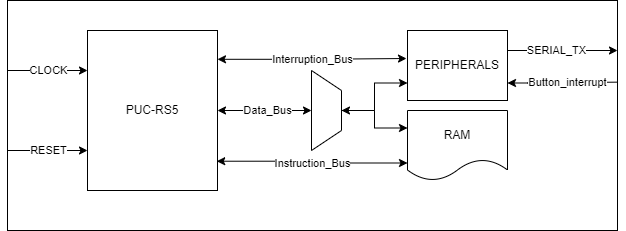
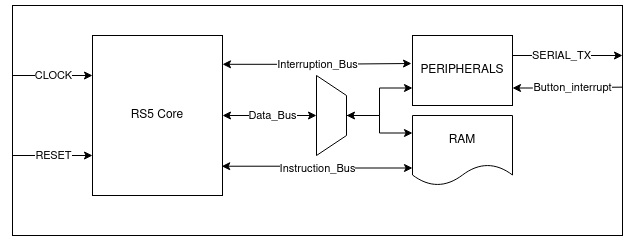
Renamed core in images and path in readme.

diff --git a/README.md b/README.md
@@ -24,19 +24,19 @@ The processor is a 4 stage pipeline, synchronized to the rising edge of the cloc
 This processor organization is an evolution of an Asynchronous RISC-V High-level Functional Model written in GO language. That can be found in the [ARV Go High-level Functional Model](https://github.com/marlls1989/arv) repository.
 
 - First Stage - Instruction Fetch: 
-This stage is the Instruction Fetch Stage and is implemented by the [Fetch Unit](https://github.com/gaph-pucrs/PUC-RS5/blob/master/rtl/fetch.sv), this unit contains the Program Counter (PC) logic, the value contained in this register is used to index the instruction memory, at each clock cycle it is updated, it can be updated to the next instruction address (PC+4), or a branch address, it can also maintain the same address in case of a bubble being inserted due to a detection of a data hazard or memory stall. The jump/branch prediction policy is "never taken".
+This stage is the Instruction Fetch Stage and is implemented by the [Fetch Unit](https://github.com/gaph-pucrs/RS5/blob/master/rtl/fetch.sv), this unit contains the Program Counter (PC) logic, the value contained in this register is used to index the instruction memory, at each clock cycle it is updated, it can be updated to the next instruction address (PC+4), or a branch address, it can also maintain the same address in case of a bubble being inserted due to a detection of a data hazard or memory stall. The jump/branch prediction policy is "never taken".
 Each instruction that leaves the first stage is linked to a Tag that will follow the instruction until its retirement. This Tag is a number that indicates the "flow/context" of that instruction. Every time a jump/branch occurs the tag will be increased meaning that the fetched instructions now belong to a new flow.
 
 - Second Stage - Instruction Decode: 
-It comprehends the [Decoder Unit](https://github.com/gaph-pucrs/PUC-RS5/blob/master/rtl/decode.sv), It is responsible for the generation of the control signals, based on the instruction object code fetched by the previous stage. It identifies the instruction operation (e.g. addi, bne) that is implemented in a one-hot encoding. It also decodes the instruction format (e.g. Immediate, Branch). Also sends to the register bank the read addresses that are directly extracted from the instruction object code, the object code is also used for the immediate operand extraction, based on the instruction format. The instruction format also determines the operands that will be sent to the next stage. The Data Hazard Detection mechanism is implemented by this unit, it tracks the Destiny register (regD) of the instruction that currently is in execute stage, this register is called the "blocked register", its value is updated every time that an instruction leaves the stage. A Data Hazard is detected when the instruction being processed by the decoding stage has an operator that must be read from the blocked register, this issues a signal called "hazard" that indicates that a bubble must be issued until the data conflict gets resolved. This unit also looks for data memory hazards, cases where a read is performed right after a write in the memory. 
+It comprehends the [Decoder Unit](https://github.com/gaph-pucrs/RS5/blob/master/rtl/decode.sv), It is responsible for the generation of the control signals, based on the instruction object code fetched by the previous stage. It identifies the instruction operation (e.g. addi, bne) that is implemented in a one-hot encoding. It also decodes the instruction format (e.g. Immediate, Branch). Also sends to the register bank the read addresses that are directly extracted from the instruction object code, the object code is also used for the immediate operand extraction, based on the instruction format. The instruction format also determines the operands that will be sent to the next stage. The Data Hazard Detection mechanism is implemented by this unit, it tracks the Destiny register (regD) of the instruction that currently is in execute stage, this register is called the "blocked register", its value is updated every time that an instruction leaves the stage. A Data Hazard is detected when the instruction being processed by the decoding stage has an operator that must be read from the blocked register, this issues a signal called "hazard" that indicates that a bubble must be issued until the data conflict gets resolved. This unit also looks for data memory hazards, cases where a read is performed right after a write in the memory. 
 The locked register value is used for indexing the register that must receive the write-back data from the retire unit.
 
 - Third Stage - Instruction Execution:
-This stage comprehends the Instruction Execution Stage that is implemented by the [Execute Unit](https://github.com/gaph-pucrs/PUC-RS5/blob/master/rtl/execute.sv), It implements an Arithmetic Logic Unit (ALU) responsible for calculations, and it also has a Branch Unit that makes the decision of branching based on instruction operation and operands. Also implements the Memory Load and Store mechanism. Lastly, it implements the CSR access logic.
+This stage comprehends the Instruction Execution Stage that is implemented by the [Execute Unit](https://github.com/gaph-pucrs/RS5/blob/master/rtl/execute.sv), It implements an Arithmetic Logic Unit (ALU) responsible for calculations, and it also has a Branch Unit that makes the decision of branching based on instruction operation and operands. Also implements the Memory Load and Store mechanism. Lastly, it implements the CSR access logic.
 The operations are performed based on Tag comparisons between this unit's tag and the instruction tag, if they mismatch the instruction is killed and its operation is not performed. A performed branch causes the internal tag to be increased, causing the tag mismatch on the following instructions until an instruction fetched from the new flow arrives with the updated tag.
 
 Fourth Stage:
-This is the last stage and it is responsible for the write-back of the instructions data, it is implemented by the [Retire Unit](https://github.com/gaph-pucrs/PUC-RS5/blob/master/rtl/retire.sv) and is responsible for closing the loops. It performs the write-back on the register bank. It also receives the data read from memory and process it based on instruction operation, then it decides which data should be sent to the register bank, either the data from memory or the data from execute unit.
+This is the last stage and it is responsible for the write-back of the instructions data, it is implemented by the [Retire Unit](https://github.com/gaph-pucrs/RS5/blob/master/rtl/retire.sv) and is responsible for closing the loops. It performs the write-back on the register bank. It also receives the data read from memory and process it based on instruction operation, then it decides which data should be sent to the register bank, either the data from memory or the data from execute unit.
 
 ### The three loops
 
@@ -55,25 +55,25 @@ The processor implements The memory interface depicted in the above image. The M
 
 ## Requirements
 
-To perform code compilation the RISC-V toolchain is needed. The toolchain has a compiler that performs the compilation of the applications codes that are written in C language and generates a binary, this binary is the entry of the processor simulation. The applications are located in [app/](https://github.com/gaph-pucrs/PUC-RS5/tree/master/app).
+To perform code compilation the RISC-V toolchain is needed. The toolchain has a compiler that performs the compilation of the applications codes that are written in C language and generates a binary, this binary is the entry of the processor simulation. The applications are located in [app/](https://github.com/gaph-pucrs/RS5/tree/master/app).
 
 The installation of the toolchain is only needed if you want to compile new applications or change parameters in the given ones.
 
-To install the Toolchain a guide and a script are provided inside the folder [tools/riscv-toolchain](https://github.com/gaph-pucrs/PUC-RS5/tree/master/tools/riscv-toolchain).
+To install the Toolchain a guide and a script are provided inside the folder [tools/riscv-toolchain](https://github.com/gaph-pucrs/RS5/tree/master/tools/riscv-toolchain).
 
-To perform the simulation you must have a HDL simulator (e.g. XCELIUM, MODELSIM). To perform the simulation of a specific application, you must edit the binary input file in the [RAM_mem.sv](https://github.com/gaph-pucrs/PUC-RS5/blob/master/sim/RAM_mem.sv). The testbench and the ram implementation are located in the [/sim](https://github.com/gaph-pucrs/PUC-RS5/tree/master/sim) folder. Once the desired application is selected and the testbench is pointing to it, then you are able to perform the simulation using the HDL simulator. 
+To perform the simulation you must have a HDL simulator (e.g. XCELIUM, MODELSIM). To perform the simulation of a specific application, you must edit the binary input file in the [RAM_mem.sv](https://github.com/gaph-pucrs/RS5/blob/master/sim/RAM_mem.sv). The testbench and the ram implementation are located in the [/sim](https://github.com/gaph-pucrs/RS5/tree/master/sim) folder. Once the desired application is selected and the testbench is pointing to it, then you are able to perform the simulation using the HDL simulator. 
 
 ## Applications
-In this repository, some applications that were used to validate the processor are provided. The source codes of the applications are located in the [app/](https://github.com/gaph-pucrs/PUC-RS5/tree/master/app) folder, all of them can be built using their own Makefile, which will generate the output binary of each application.
+In this repository, some applications that were used to validate the processor are provided. The source codes of the applications are located in the [app/](https://github.com/gaph-pucrs/RS5/tree/master/app) folder, all of them can be built using their own Makefile, which will generate the output binary of each application.
 
 ### Coremark
-The [Coremark](https://github.com/gaph-pucrs/PUC-RS5/tree/master/app/coremark) is a Benchmark application that was developed by EEMBC, it was ported to run in RS5 and can be compiled by simply running the command "make" inside Coremark's folder, it will then generate a binary called "coremark.bin". In our processor, since we have only one thread we are running the coremark for only one iteration.
+The [Coremark](https://github.com/gaph-pucrs/RS5/tree/master/app/coremark) is a Benchmark application that was developed by EEMBC, it was ported to run in RS5 and can be compiled by simply running the command "make" inside Coremark's folder, it will then generate a binary called "coremark.bin". In our processor, since we have only one thread we are running the coremark for only one iteration.
 
 ### RISCV Tests
 The [riscv-tests](https://github.com/marlls1989/riscv-tests/tree/159079a82ecc332ce32e5db84aff9f814dc7ec12) is the "Berkeley Suite" that was developed to validate the RISC-V implementations. It tests all the instructions by running comparisons between the expected results and those generated by the Unit under verification.
 
 ### Sample Codes
-The [samplecode](https://github.com/gaph-pucrs/PUC-RS5/tree/master/app/samplecode) folder contains some simple applications that were used to test some functionalities in the processor. These applications use BareOS, which is a simple Operational System. All the applications are compiled at once by simply running the "make" command. To add more applications you must insert in the folder with the source code in C language and then edit the [Makefile](https://github.com/gaph-pucrs/PUC-RS5/blob/master/app/samplecode/Makefile) so it also compiles the new application, to do that, is just needed to edit line 13 of the Makefile by adding the name of the new application on the "PROGNAME" variable, that is a list of the applications that will be made.
+The [samplecode](https://github.com/gaph-pucrs/RS5/tree/master/app/samplecode) folder contains some simple applications that were used to test some functionalities in the processor. These applications use BareOS, which is a simple Operational System. All the applications are compiled at once by simply running the "make" command. To add more applications you must insert in the folder with the source code in C language and then edit the [Makefile](https://github.com/gaph-pucrs/RS5/blob/master/app/samplecode/Makefile) so it also compiles the new application, to do that, is just needed to edit line 13 of the Makefile by adding the name of the new application on the "PROGNAME" variable, that is a list of the applications that will be made.
 
 The applications provided are:
 1. Dummy - Test the halt function of the processor.
@@ -82,9 +82,9 @@ The applications provided are:
 
 ### Prototyping
 
-This processor is designed to be prototyped in FPGA environments. In the [proto/](https://github.com/gaph-pucrs/PUC-RS5/tree/master/proto) folder there is the designed environment for prototyping. The prototyping was made in a Vivado environment and the folder includes a Vivado ".xpr" project that includes all the required files for replication.
+This processor is designed to be prototyped in FPGA environments. In the [proto/](https://github.com/gaph-pucrs/RS5/tree/master/proto) folder there is the designed environment for prototyping. The prototyping was made in a Vivado environment and the folder includes a Vivado ".xpr" project that includes all the required files for replication.
 
-The prototyping Environment is shown in the figure below. This environment is implemented by the [RS5_FPGA_Platform.sv](https://github.com/gaph-pucrs/PUC-RS5/blob/master/proto/RS5_FPGA_Platform.sv) module. This module instantiates the RS5 core and implements the memory using Block Rams, the RS5 also counts with a compiler "ifdef" macro to use a LUT RAM Register Bank to optimize FPGA resource usage. There is a module that implements the core peripherals that will be discussed in the next subsection. The peripheral access is made through the data memory interface and the peripherals are mapped in memory in addresses that are higher than the memory length, that in this case is 64Kbs.
+The prototyping Environment is shown in the figure below. This environment is implemented by the [RS5_FPGA_Platform.sv](https://github.com/gaph-pucrs/RS5/blob/master/proto/RS5_FPGA_Platform.sv) module. This module instantiates the RS5 core and implements the memory using Block Rams, the RS5 also counts with a compiler "ifdef" macro to use a LUT RAM Register Bank to optimize FPGA resource usage. There is a module that implements the core peripherals that will be discussed in the next subsection. The peripheral access is made through the data memory interface and the peripherals are mapped in memory in addresses that are higher than the memory length, that in this case is 64Kbs.
 <img src="imgs/RS5_Environment.png" alt="Environment Diagram">
 > RS5 Environment DIAGRAM.
 
